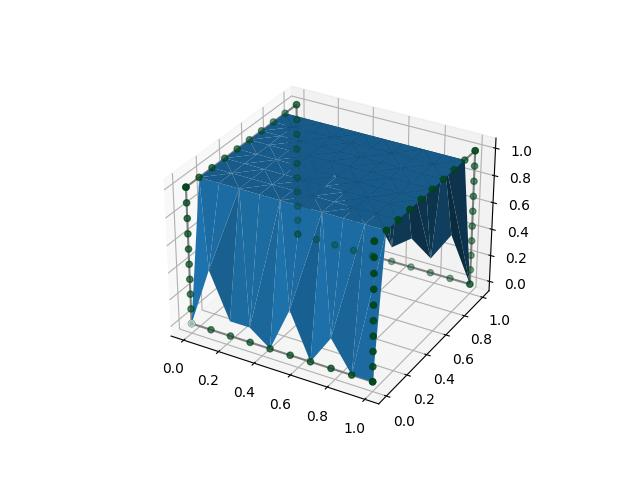
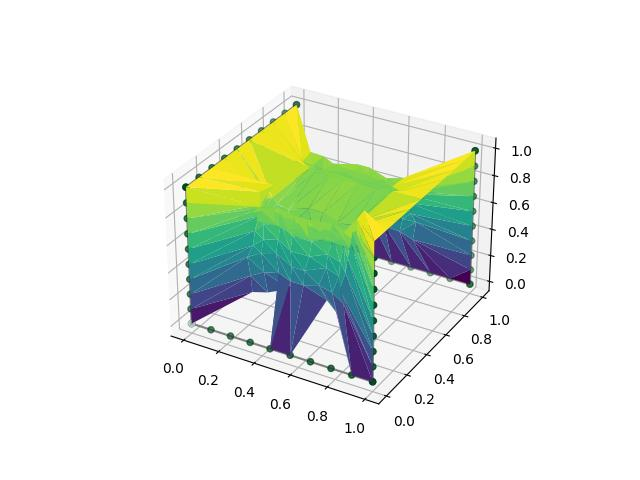
First trial with triangulation technique

Changed region(s): [[0.2812, 0.2188, 0.75, 0.8125]]

diff --git a/main.py b/main.py
@@ -142,7 +142,6 @@ def area(tri):
 
 def refine(bubblepts, tris): 
   # Find the triangulation of the surface -- use find_tris()
-
   
   """
   # Article on surface reconstruction with python: https://towardsdatascience.com/5-step-guide-to-generate-3d-meshes-from-point-clouds-with-python-36bad397d8ba
@@ -184,7 +183,7 @@ def refine(bubblepts, tris):
     # For each of the indices stored in tri (for each vertex)
     for i,p in enumerate(tri):
       # If the point is on the boundary and it's set to not increase the number of points:
-      print(triangle[i])
+      #print(triangle[i])
       if any(np.equal(boundary0,triangle[i]).all(1)) and constN:
         adjustments[p] = np.array([0], ndmin=1)
         #print(p)
@@ -217,48 +216,50 @@ def refine(bubblepts, tris):
 
 def bubble_evolve(bubblepts0, reps):
   soap = bubblepts0
-  
+
+  # Triangulate the surface if using the mesh strategy:
   if sRefined == True:
-    tris = [[n,n+1,n+10] for n in range(len(bubblepts0))]
-    plt.triplot(bubblepts[:,0], bubblepts[:,1], bubblepts[:,2], tris)
+    tris = find_tris(bubblepts0)
 
-  
+  # Repeat the specified number of times:
   for rep in range(reps):
-    #print(np.array(refine(soap))[:40])
 
-    
+    # If using meshing strategy
     if sRefined == True:
-      
+      # Add the adjustments to the soap point cloud
+      soap = np.add(soap, refine(soap))
 
-      
-      if constN:
-        soap = np.add(soap, refine(soap))
-      else:
-        soap = np.add(np.concatenate([soap, boundary0], axis=0), refine(soap))
-
+    # If using the boring strategy
     else:
+      # If the number of points remains constant
       if constN:
+        # Add the adjustments to the soap point cloud
         soap = np.add(soap, find_nearest(soap))
+      # If more points are added each time
       else:
+        # Add the adjustments to the soap point cloud, and append the boundary points once more
         soap = np.add(np.concatenate([soap, boundary0], axis=0), find_nearest(soap))
+    # Print number of iterations completed to keep track of progress
     print(f"Iteration: {rep + 1}")
+
+  # Return the final result
   return soap
 
 
-
+find_tris(soap0)
 #"""
-############### film = bubble_evolve(soap0, REPS)
+film = bubble_evolve(soap0, REPS)
 #print(find_nearest(soap0))
 
-"""
+
 if surf:
-  ax.plot_trisurf(film.T[0], film.T[1], film.T[2], cmap='viridis', edgecolor='none');
+  ax.plot_trisurf(film.T[0], film.T[1], film.T[2], triangles=find_tris(soap0), cmap='viridis', edgecolor='none');
 else:
   ax.scatter3D(film.T[0], film.T[1], film.T[2], c=[0 if i==0 else 1 for i in range(len(film))], cmap='Reds');
 # Save resulting figure as an image
-fig.savefig("model3_1.jpg")
+fig.savefig("model3_2.jpg")
 #"#""
-"""
+
 
 
 
@@ -299,14 +300,15 @@ bubble_evolve0()'''
 
 # bubble_evolve with 4 iterations takes 34.5 sec, find_nearest * 4 takes 20 sec
 
-from mpl_toolkits.mplot3d import Axes3D
+#from mpl_toolkits.mplot3d import Axes3D
 
 bubblepts=soap0
 
 #tris = np.array([[[n,n+1,n+10], [n,n+9,n+10]] for n in range(len(bubblepts)-10) if n%10 == 9][:40]).reshape(-1,3)
 
+
 #print(tris)
-ax.plot_trisurf(bubblepts[:,0], bubblepts[:,1], bubblepts[:,2], triangles = tris)
+ax.plot_trisurf(bubblepts[:,0], bubblepts[:,1], bubblepts[:,2], triangles = find_tris)
 fig.savefig("begin0.jpg")
 
 #Commented out np.unique line
